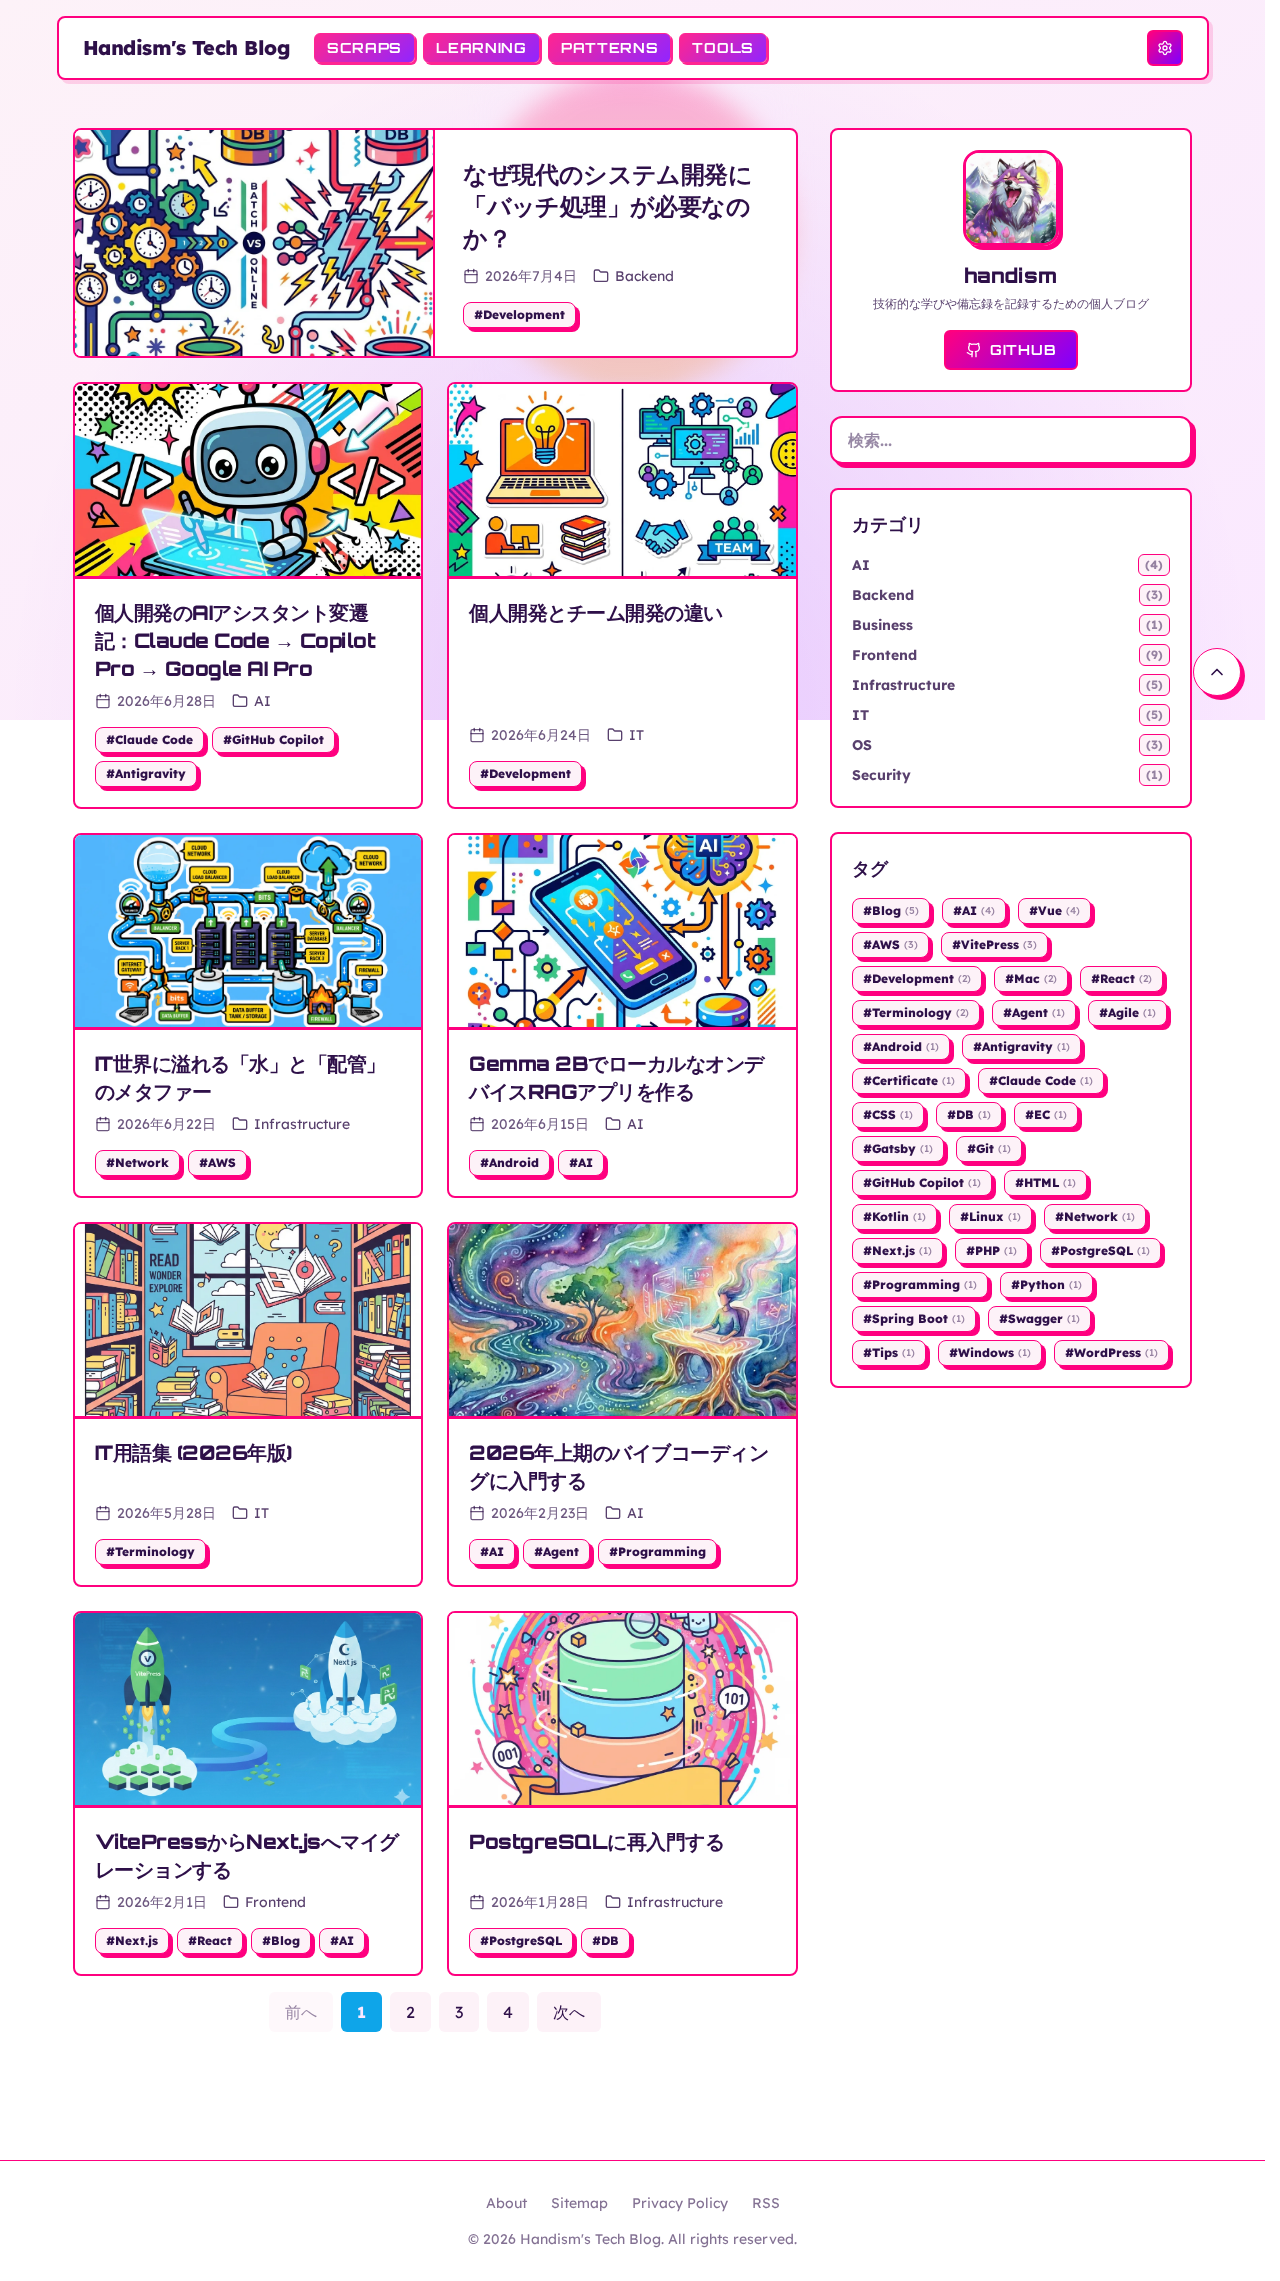
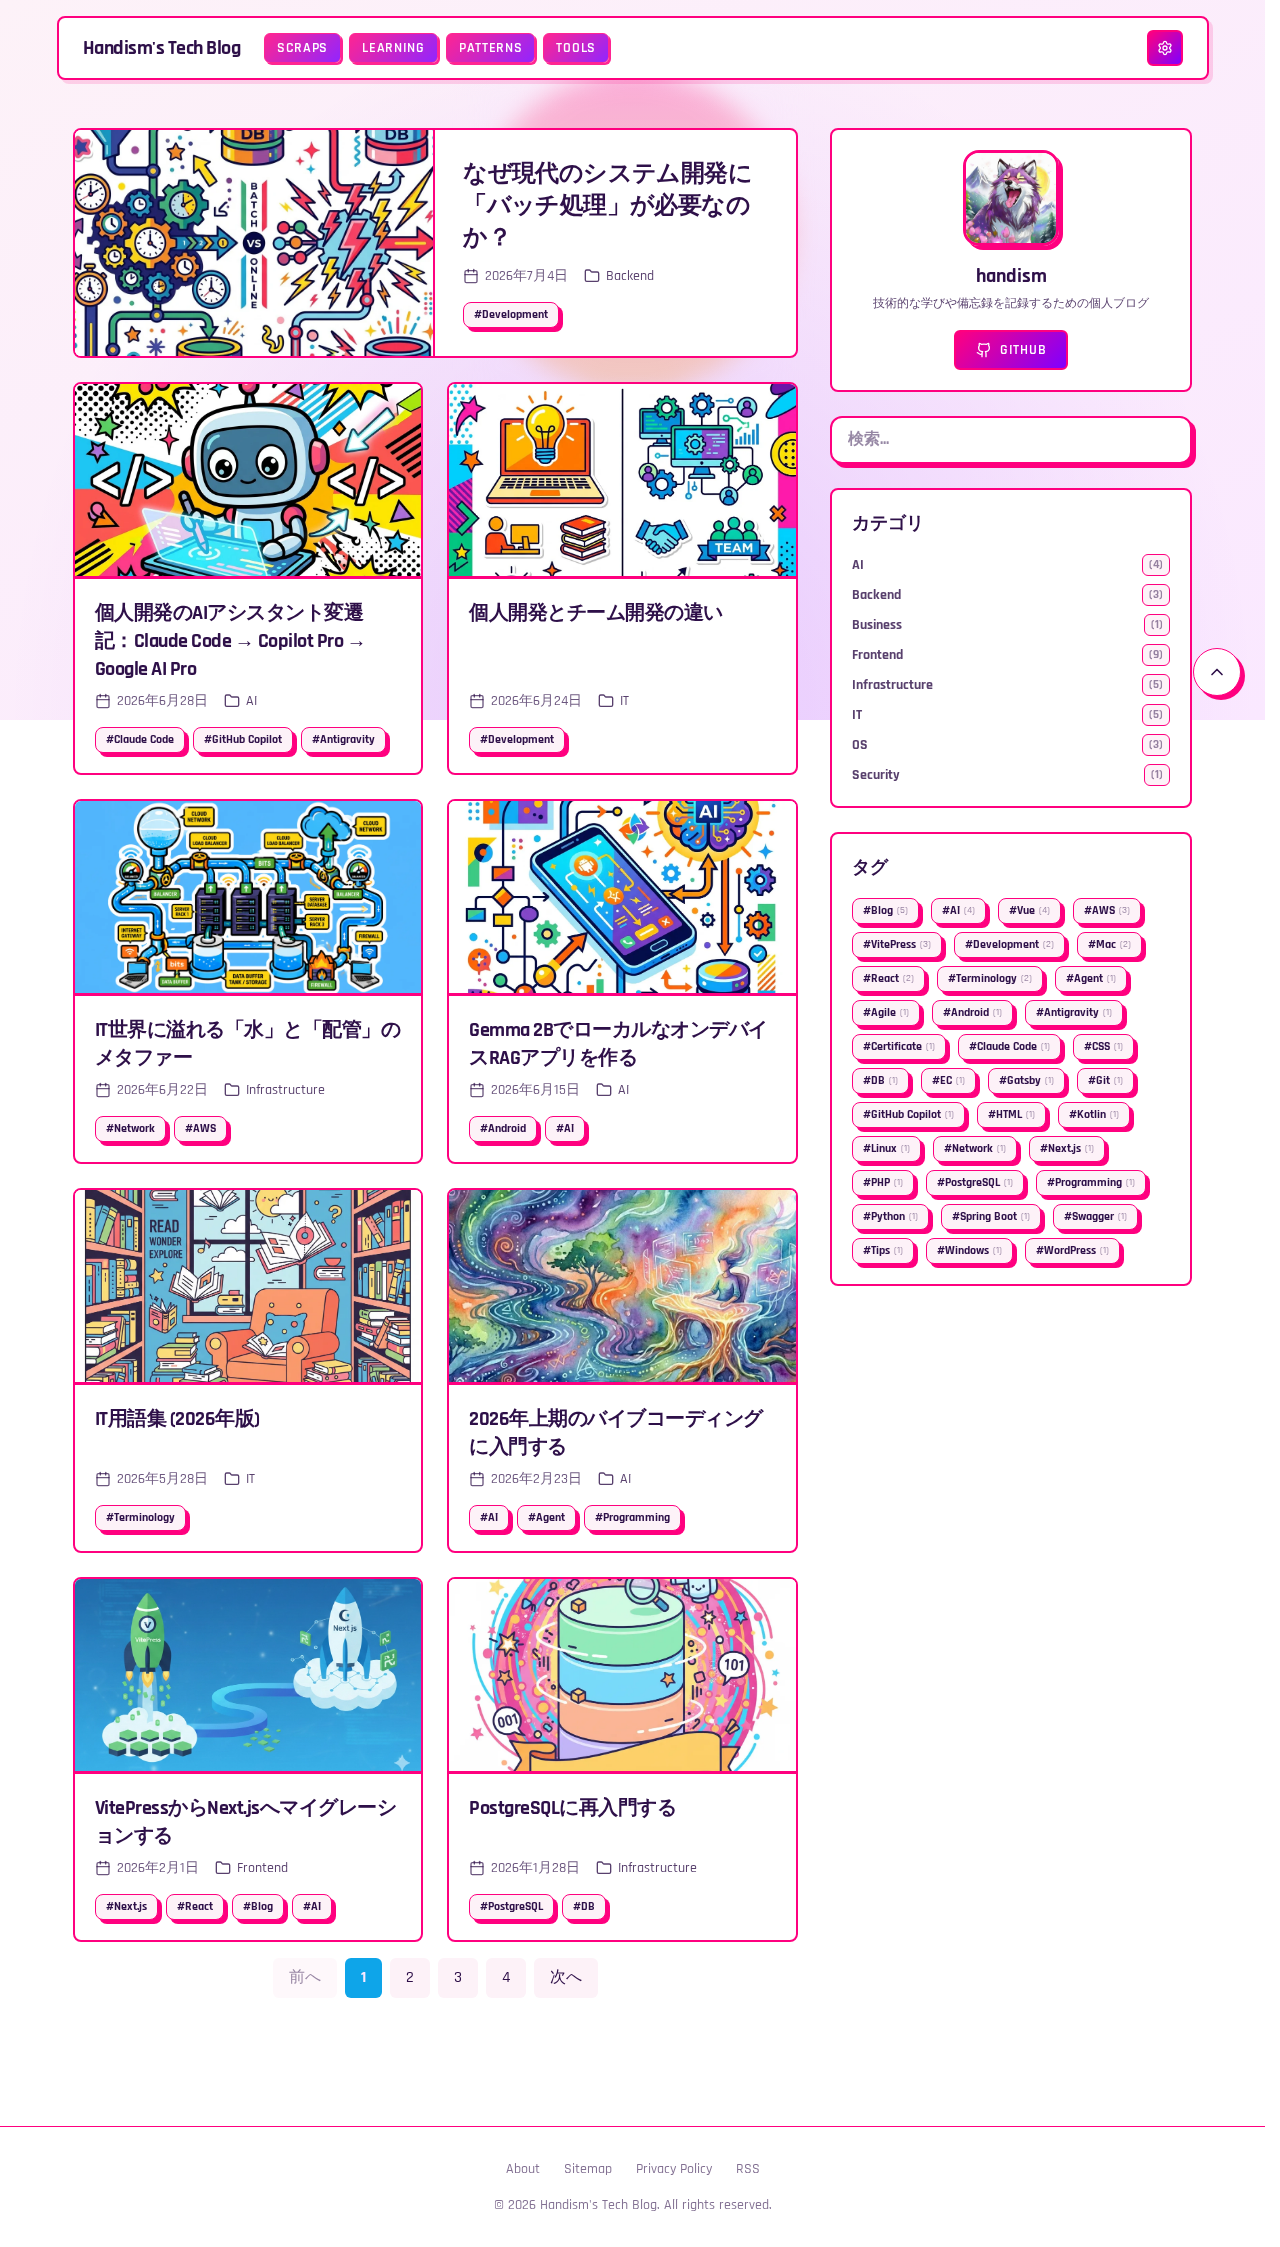
feat(ux): add clear buttons to search inputs (#80)
- Added an accessibility-compliant clear button (`X` icon) to the search inputs in `ToolsDashboard.tsx` and `SearchBox.tsx`.
- The button is only visible when there's an active query and gracefully resets the field while returning focus to the input.
- Documented UX learnings in `.Jules/palette.md`.

Pull request: 🎨 Palette: Add clear button to search inputs
This PR implements a micro-UX enhancement by adding clear buttons to search input fields, ensuring users can quickly reset their queries without needing to use the backspace key repeatedly.

### 💡 What:
Added a conditionally rendered clear button (`lucide-react` `X` icon) inside the search inputs of `ToolsDashboard.tsx` and `SearchBox.tsx`.

### 🎯 Why:
To improve usability and provide immediate visual feedback that the field is active and can be quickly reset. This directly solves the frustration of manually clearing long search queries.

### ♿ Accessibility:
- The buttons include proper `aria-label` attributes (`検索条件をクリア`).
- Keyboard navigation is supported via `focus-visible` styling (`focus-visible:ring-2 focus-visible:ring-accent`).
- Focus is properly managed: clicking the clear button automatically refocuses the input field.

---
*PR created automatically by Jules for task [3352797158781931871](https://jules.google.com/task/3352797158781931871) started by @user*

Changed region(s): [[0.0625, 0.0, 0.625, 0.8723], [0.625, 0.0312, 0.9688, 0.6231], [0.375, 0.9657, 0.5938, 0.9969]]

diff --git a/src/components/SearchBox.tsx b/src/components/SearchBox.tsx
@@ -8,6 +8,7 @@ import type { PostMeta } from '@/src/types/post';
 import Link from 'next/link';
 import { useRouter } from 'next/navigation';
 import { useCallback, useEffect, useMemo, useState } from 'react';
+import { X } from 'lucide-react';
 
 /**
  * マッチ位置情報をもとにテキストを <mark> でハイライトした React ノード配列を返す。
@@ -154,25 +155,39 @@ export default function SearchBox() {
       <label htmlFor="site-search" className="sr-only">
         記事検索
       </label>
-      <input
-        id="site-search"
-        name="q"
-        type="text"
-        placeholder={isLoading ? '読込中...' : '検索...'}
-        value={query}
-        onChange={(e) => setQuery(e.target.value)}
-        onFocus={loadSearchIndex}
-        onMouseEnter={loadSearchIndex}
-        onKeyDown={handleKeyDown}
-        role="combobox"
-        aria-expanded={hasResults}
-        aria-autocomplete="list"
-        aria-controls="search-results-list"
-        aria-activedescendant={
-          selectedIndex >= 0 ? `search-result-item-${selectedIndex}` : undefined
-        }
-        className="w-full border-2 border-border bg-card text-text placeholder:text-text/50 py-2.5 px-4 rounded-xl shadow-[2px_2px_0px_0px_var(--border)] dark:shadow-[2px_2px_0px_0px_var(--accent)] focus:outline-none focus:translate-x-[-1px] focus:translate-y-[-1px] focus:shadow-[3px_3px_0px_0px_var(--border)] dark:focus:shadow-[3px_3px_0px_0px_var(--accent)] transition-all font-bold"
-      />
+      <div className="relative">
+        <input
+          id="site-search"
+          name="q"
+          type="text"
+          placeholder={isLoading ? '読込中...' : '検索...'}
+          value={query}
+          onChange={(e) => setQuery(e.target.value)}
+          onFocus={loadSearchIndex}
+          onMouseEnter={loadSearchIndex}
+          onKeyDown={handleKeyDown}
+          role="combobox"
+          aria-expanded={hasResults}
+          aria-autocomplete="list"
+          aria-controls="search-results-list"
+          aria-activedescendant={
+            selectedIndex >= 0 ? `search-result-item-${selectedIndex}` : undefined
+          }
+          className="w-full border-2 border-border bg-card text-text placeholder:text-text/50 py-2.5 pl-4 pr-10 rounded-xl shadow-[2px_2px_0px_0px_var(--border)] dark:shadow-[2px_2px_0px_0px_var(--accent)] focus:outline-none focus:translate-x-[-1px] focus:translate-y-[-1px] focus:shadow-[3px_3px_0px_0px_var(--border)] dark:focus:shadow-[3px_3px_0px_0px_var(--accent)] transition-all font-bold"
+        />
+        {query && (
+          <button
+            onClick={() => {
+              setQuery('');
+              document.getElementById('site-search')?.focus();
+            }}
+            className="absolute right-3 top-1/2 -translate-y-1/2 text-text/40 hover:text-text transition-colors p-1 focus-visible:ring-2 focus-visible:ring-accent rounded"
+            aria-label="検索条件をクリア"
+          >
+            <X className="w-4 h-4" />
+          </button>
+        )}
+      </div>
       {showResultsContainer && (
         <ul
           id="search-results-list"

diff --git a/src/components/ToolsDashboard.tsx b/src/components/ToolsDashboard.tsx
@@ -2,7 +2,7 @@
 'use client';
 
 import { toolsMenuItems, ToolItem } from '@/src/config/site';
-import { Search, ExternalLink, Sparkles } from 'lucide-react';
+import { Search, ExternalLink, Sparkles, X } from 'lucide-react';
 import Link from 'next/link';
 import { useState, useMemo } from 'react';
 
@@ -91,8 +91,20 @@ export default function ToolsDashboard() {
             placeholder="ツール名や説明から検索..."
             value={searchQuery}
             onChange={(e) => setSearchQuery(e.target.value)}
-            className="w-full pl-12 pr-4 py-3 bg-card border-2 border-border text-text placeholder-text/50 rounded-xl focus:outline-none focus:translate-x-[-1px] focus:translate-y-[-1px] focus:shadow-[3px_3px_0px_0px_var(--border)] dark:focus:shadow-[3px_3px_0px_0px_var(--accent)] transition-all text-sm font-bold"
+            className="w-full pl-12 pr-10 py-3 bg-card border-2 border-border text-text placeholder-text/50 rounded-xl focus:outline-none focus:translate-x-[-1px] focus:translate-y-[-1px] focus:shadow-[3px_3px_0px_0px_var(--border)] dark:focus:shadow-[3px_3px_0px_0px_var(--accent)] transition-all text-sm font-bold"
           />
+          {searchQuery && (
+            <button
+              onClick={() => {
+                setSearchQuery('');
+                document.getElementById('tool-search')?.focus();
+              }}
+              className="absolute right-4 top-1/2 -translate-y-1/2 text-text/40 hover:text-text transition-colors p-1 focus-visible:ring-2 focus-visible:ring-accent rounded"
+              aria-label="検索条件をクリア"
+            >
+              <X className="w-4 h-4" />
+            </button>
+          )}
         </div>
 
         {/* カテゴリタブ */}

diff --git a/.Jules/palette.md b/.Jules/palette.md
@@ -1,1 +1,4 @@
 ## 2026-07-08 - [Pomodoro Timer Delete Button Accessibility]\n**Learning:** Added an aria-label to the icon-only trash button in the Pomodoro timer history section.\n**Action:** Remember to check icon-only buttons for aria-labels to ensure screen reader accessibility.
+## 2026-07-09 - Add clear button to search inputs
+**Learning:** Adding a clear button (X icon) to search inputs significantly improves usability by allowing users to quickly reset their query without repeatedly pressing backspace. It also provides immediate visual feedback that the field is active and can be cleared.
+**Action:** Always include a clear button for search inputs, ensuring it is keyboard accessible, has an appropriate aria-label, and properly manages focus when clicked (returning focus to the input).